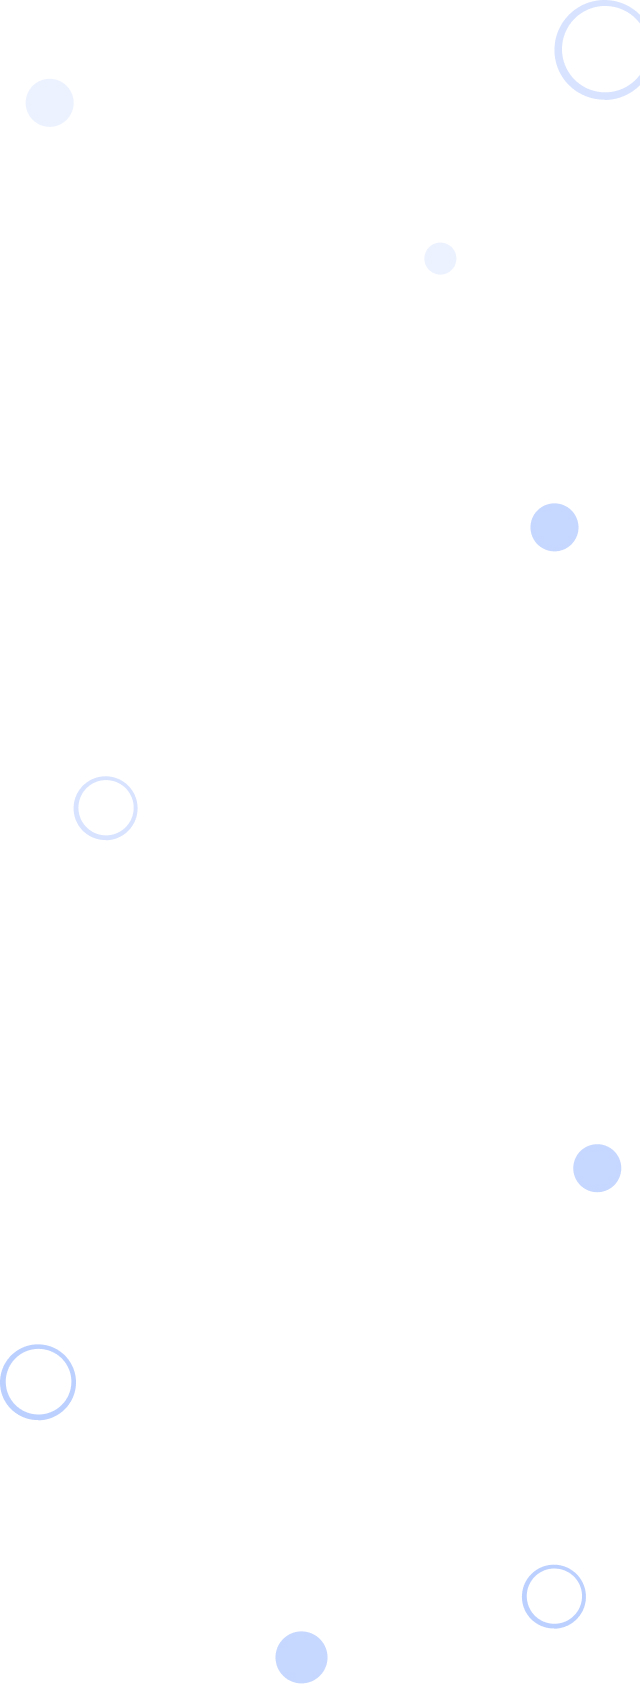
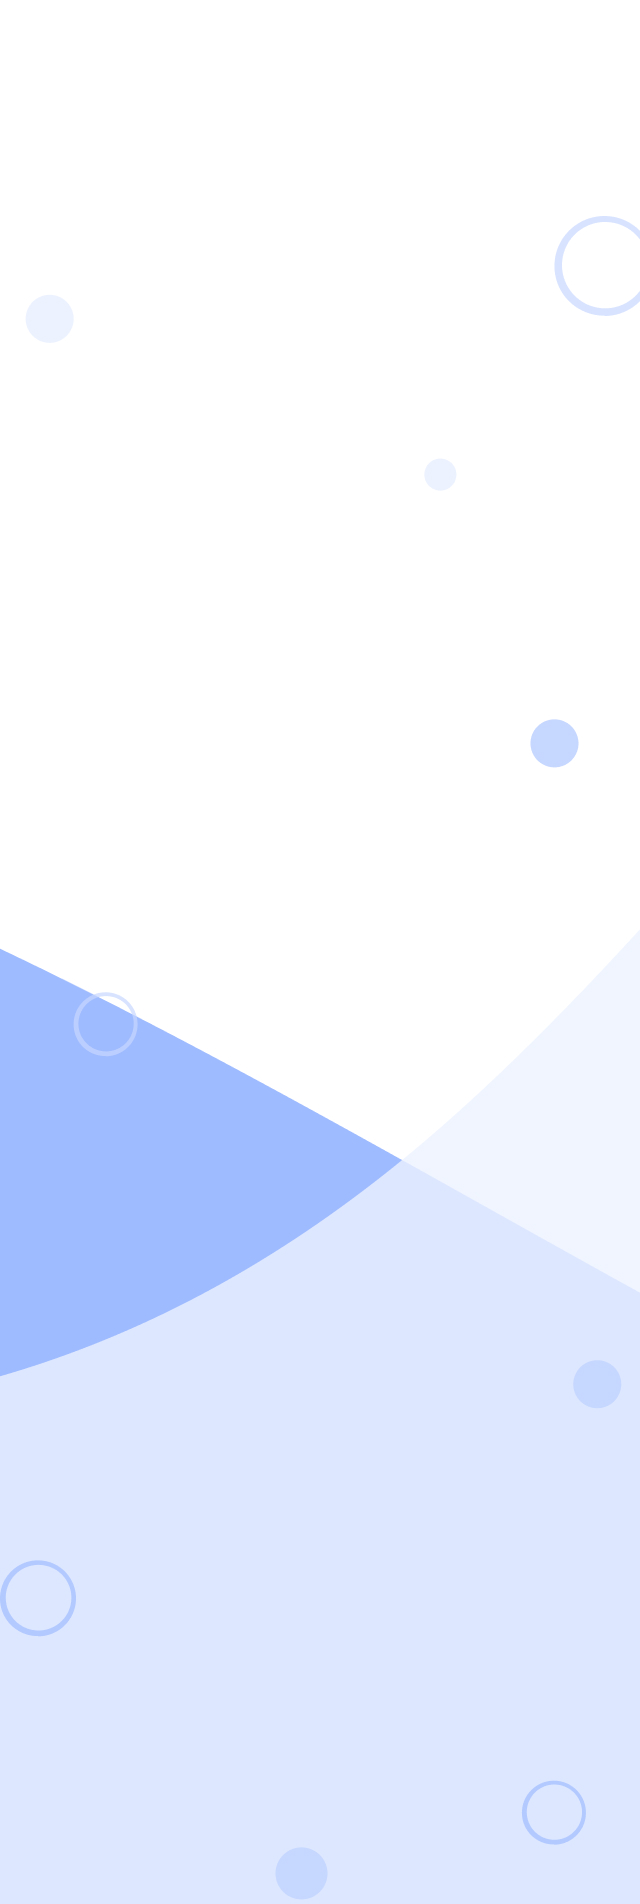
almost

diff --git a/src/pages/WelcomePage/WelcomePage.module.css b/src/pages/WelcomePage/WelcomePage.module.css
@@ -1,58 +1,80 @@
 .container {
-  border-radius: 10px;
+  /* border-radius: 10px; */
   /* margin: 40px 20px; */
   /* padding: 24px 16px; */
   margin-top: 20px;
   width: 280px;
   height: 384px;
-  box-shadow: 0 4px 14px 0 rgba(64, 123, 255, 0.3);
-  background: #ecf2ff;
+  /* box-shadow: 0 4px 14px 0 rgba(64, 123, 255, 0.3); */
+  /* background: #ecf2ff; */
   /* margin-left: 198px; */
 }
 
 .wrapper {
-  background-image: url("../../images/background/mobile/Background-mobile-1x.webp");
   display: flex;
   flex-direction: column;
-  flex-wrap: nowrap;
   gap: 40px;
+}
+
+.section {
+  background-image: url("../../images/background/mobile/Background-mobile-1x.webp");
+  padding: 34px 20px;
+  flex-wrap: nowrap;
+  
   align-items: center;
   background-repeat: no-repeat;
-  background-position: bottom;
-  min-height: 800px;
+ 
+  background-size: cover;
+  height: 100%;
 }
 
 @media screen and (min-resolution: 192dpi) and (min-width: 320px) {
-  .wrapper {
+  .section {
     background-image: url("../../images/background/mobile/Background-mobile-2x.webp");
   }
 }
 
 @media screen and (min-width: 768px) {
-  .wrapper {
+  .section {
     background-image: url("../../images/background/tablet/Background-tab-1x.webp");
     flex-direction: column;
     gap: 60px;
+    padding: 50px 32px;
+    height: 800px;
   }
   .container {
     /* margin-left: 32px; */
     width: 704px;
     height: 254px;
+    
   }
   @media screen and (min-resolution: 192dpi) and (min-width: 768px) {
-    .wrapper {
+    .section {
       background-image: url("../../images/background/tablet/Background-tab-2x.webp");
     }
   }
 }
 
 @media screen and (min-width: 1440px) {
-  .wrapper {
+  .section {
     background-image: url("../../images/background/desktop/Background-desktop-1x.webp");
     gap: 81px;
-    flex-direction: row;
+    padding-left: 216px;
+    
+    background-position: bottom;
+    background-size: auto;
+    width: 1440px;
+    height: 740px;
+    padding-top: 80px;
+  }
 
-    margin-top: 140px;
+  .wrapper {
+    display: flex;
+    align-items:end;
+    width: 1014px;
+    flex-direction: row;
+    gap: 81px;
+    
   }
 
   .container {
@@ -62,7 +84,7 @@
   }
 
   @media screen and (min-resolution: 192dpi) and (min-width: 1440px) {
-    .wrapper {
+    .section {
       background-image: url("../../images/background/desktop/Background-desktop-2x.webp");
     }
   }

diff --git a/src/components/Header/Header.module.css b/src/components/Header/Header.module.css
@@ -1,13 +1,22 @@
-.headerContainer{
+/* .headerContainer{
 height: 48px;
-margin-bottom: 24px;
-margin-top: 8px;
-margin-left: 20px;
-margin-right: 20px;
+/* margin-bottom: 24px; */
+/* padding: 16px 32px; */
+
+/* margin-left: 20px;
+margin-right: 20px; */
+/* } */ 
+
+.headerContainer{
+  height: 48px;
+  width: 280px;
+  padding: 8px 20px;
 }
 
 .header{
-width: 100%;
+/* width: 100%; */
+height: 48px;
+  width: 280px;
 display: flex;
 align-items: center;
 justify-content: space-between;
@@ -47,28 +56,34 @@ header button:hover {
   height: 24px;
 }
 
-@media screen and(min-width: 1440px) {
-    .headerContainer{
-        width: 1216px;
-        margin-bottom: 49px;
-        margin-top: 12px;
-        margin-left: 84px;
-        margin-right: 84px;
-    }
-}
-
-@media screen and(min-width: 768px) {
+@media screen and (min-width: 768px) {
     .headerContainer{
         width: 704px;
-        margin-bottom: 40px;
-        margin-top: 16px;
+        /* margin-bottom: 40px; */
+        /* margin-top: 16px;
         margin-left: 32px;
-        margin-right: 32px;
+        margin-right: 32px; */
+        padding: 16px 32px;
+    }
+
+    .header {
+      width: 704px;
+    } 
+}
+
+@media screen and (min-width: 1440px) {
+  .headerContainer{
+        width: 1216px;
+        /* margin-bottom: 49px;
+        margin-top: 12px;
+        margin-left: 84px;
+        margin-right: 84px; */
+        padding: 12px 112px;
+    }
+    .header {
+      width: 1216px;
     }
 }
 
-@media screen and(min-width: 320px){
-    .headerContainer{
-        width: 280px;
-    }
-}
+
+    

diff --git a/src/pages/WelcomePage/WelcomePage.jsx b/src/pages/WelcomePage/WelcomePage.jsx
@@ -4,19 +4,21 @@ import css from "./WelcomePage.module.css";
 export default function WelcomePage() {
   console.log("Rendered WelcomePage");
   return (
-    <ul className={css.list}>
+    <section className={css.section}>
+    
       <div className={css.wrapper}>
-        <div className={css.container}>
-          <li>
+        <div className={css.containerWater}>
+          
             <WaterСonsumptionTracker />
-          </li>
+          
         </div>
-        <div>
-          <li>
+        <div className={css.containerWhy}>
+          
             <WhyDrinkWater />
-          </li>
+          
         </div>
       </div>
-    </ul>
+    
+    </section>
   );
 }

diff --git a/src/components/WaterСonsumptionTracker/WaterСonsumptionTracker.module.css b/src/components/WaterСonsumptionTracker/WaterСonsumptionTracker.module.css
@@ -15,7 +15,7 @@
 
   @media screen and (min-width: 768px) {
     width: 704px;
-    margin-bottom: 60px;
+    /* margin-bottom: 60px; */
   }
 
   @media screen and (min-width: 1440px) {
@@ -77,7 +77,7 @@
   }
 }
 .benefits__title {
-  font-weight: 500;
+  /* font-weight: 500; */
   font-size: 18px;
   line-height: 1.11;
   padding-bottom: 12px;
@@ -100,6 +100,7 @@
 .item {
   display: flex;
   align-items: center;
+  padding-bottom: 16px;
 
   @media screen and (min-width: 768px) {
     width: calc(100% / 3 - 0px);
@@ -110,6 +111,7 @@
     width: 100%;
     margin-right: 0;
     margin-bottom: 16px;
+    padding-bottom: 0px;
   }
 }
 

diff --git a/src/components/WaterСonsumptionTracker/WaterСonsumptionTracker.jsx b/src/components/WaterСonsumptionTracker/WaterСonsumptionTracker.jsx
@@ -10,7 +10,7 @@ const WaterСonsumptionTracker = () => {
         <h2 className={css.sub__title}>Record daily water intake and track</h2>
       </div>
       <div className={css.benefits}>
-        <h3 className={css.benefits__title}>Tracker Benefits:</h3>
+        <h3 className={css.benefits__title}>Tracker Benefits</h3>
         <ul className={css.list}>
           <li className={css.item}>
             <Icon id="icon-calendar" className={css.icon} />

diff --git a/src/components/WhyDrinkWater/WhyDrinkWater.module.css b/src/components/WhyDrinkWater/WhyDrinkWater.module.css
@@ -10,7 +10,7 @@
 
 .title {
   font-family: 'Roboto', sans-serif;
-  font-weight: 500;
+  /* font-weight: 500; */
   font-size: 18px;
   line-height: 1.11111;
   color: #2f2f2f;
@@ -52,7 +52,7 @@
     padding: 32px 24px;
     width: 494px;
     height: 326px;
-    margin-left: -198px;
+    
   }
 }
 

diff --git a/src/styles/reset.css b/src/styles/reset.css
@@ -29,3 +29,6 @@ button {
   cursor: pointer;
   border: none;
 }
+body {
+  margin: 0;
+}
